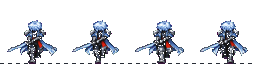
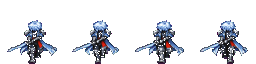
Remove final checker seams from Rian sheets
Clear the one-pixel contact-sheet resampling seam from five baselines and update the legacy fainted-asset assertion to require true RGBA transparency.

diff --git a/tests/test_battle_animations.py b/tests/test_battle_animations.py
@@ -11,14 +11,15 @@ from tools.build_battle_animation_atlas import (ACTOR_H, ACTOR_W, CELL_OFFSET,
 
 
 class BattleAnimationTests(unittest.TestCase):
-    def test_directional_fainted_assets_are_single_chroma_key_cells(self):
+    def test_directional_fainted_assets_are_single_transparent_cells(self):
         battle_dir = Path(__file__).parents[1] / 'assets' / 'characters' / 'battle'
         for direction in ('front_down', 'back_up', 'profile_right'):
             path = battle_dir / f'rian_fainted_{direction}_64x64.png'
             with self.subTest(direction=direction):
-                image = Image.open(path).convert('RGB')
+                image = Image.open(path).convert('RGBA')
                 self.assertEqual((64, 64), image.size)
-                self.assertEqual((255, 0, 255), image.getpixel((0, 0)))
+                self.assertEqual(0, image.getpixel((0, 0))[3])
+                self.assertEqual(255, image.getchannel('A').getextrema()[1])
 
     def test_clip_ranges_cover_master_once_in_declared_order(self):
         self.assertTrue(battle_animations.validate_clip_contract())
